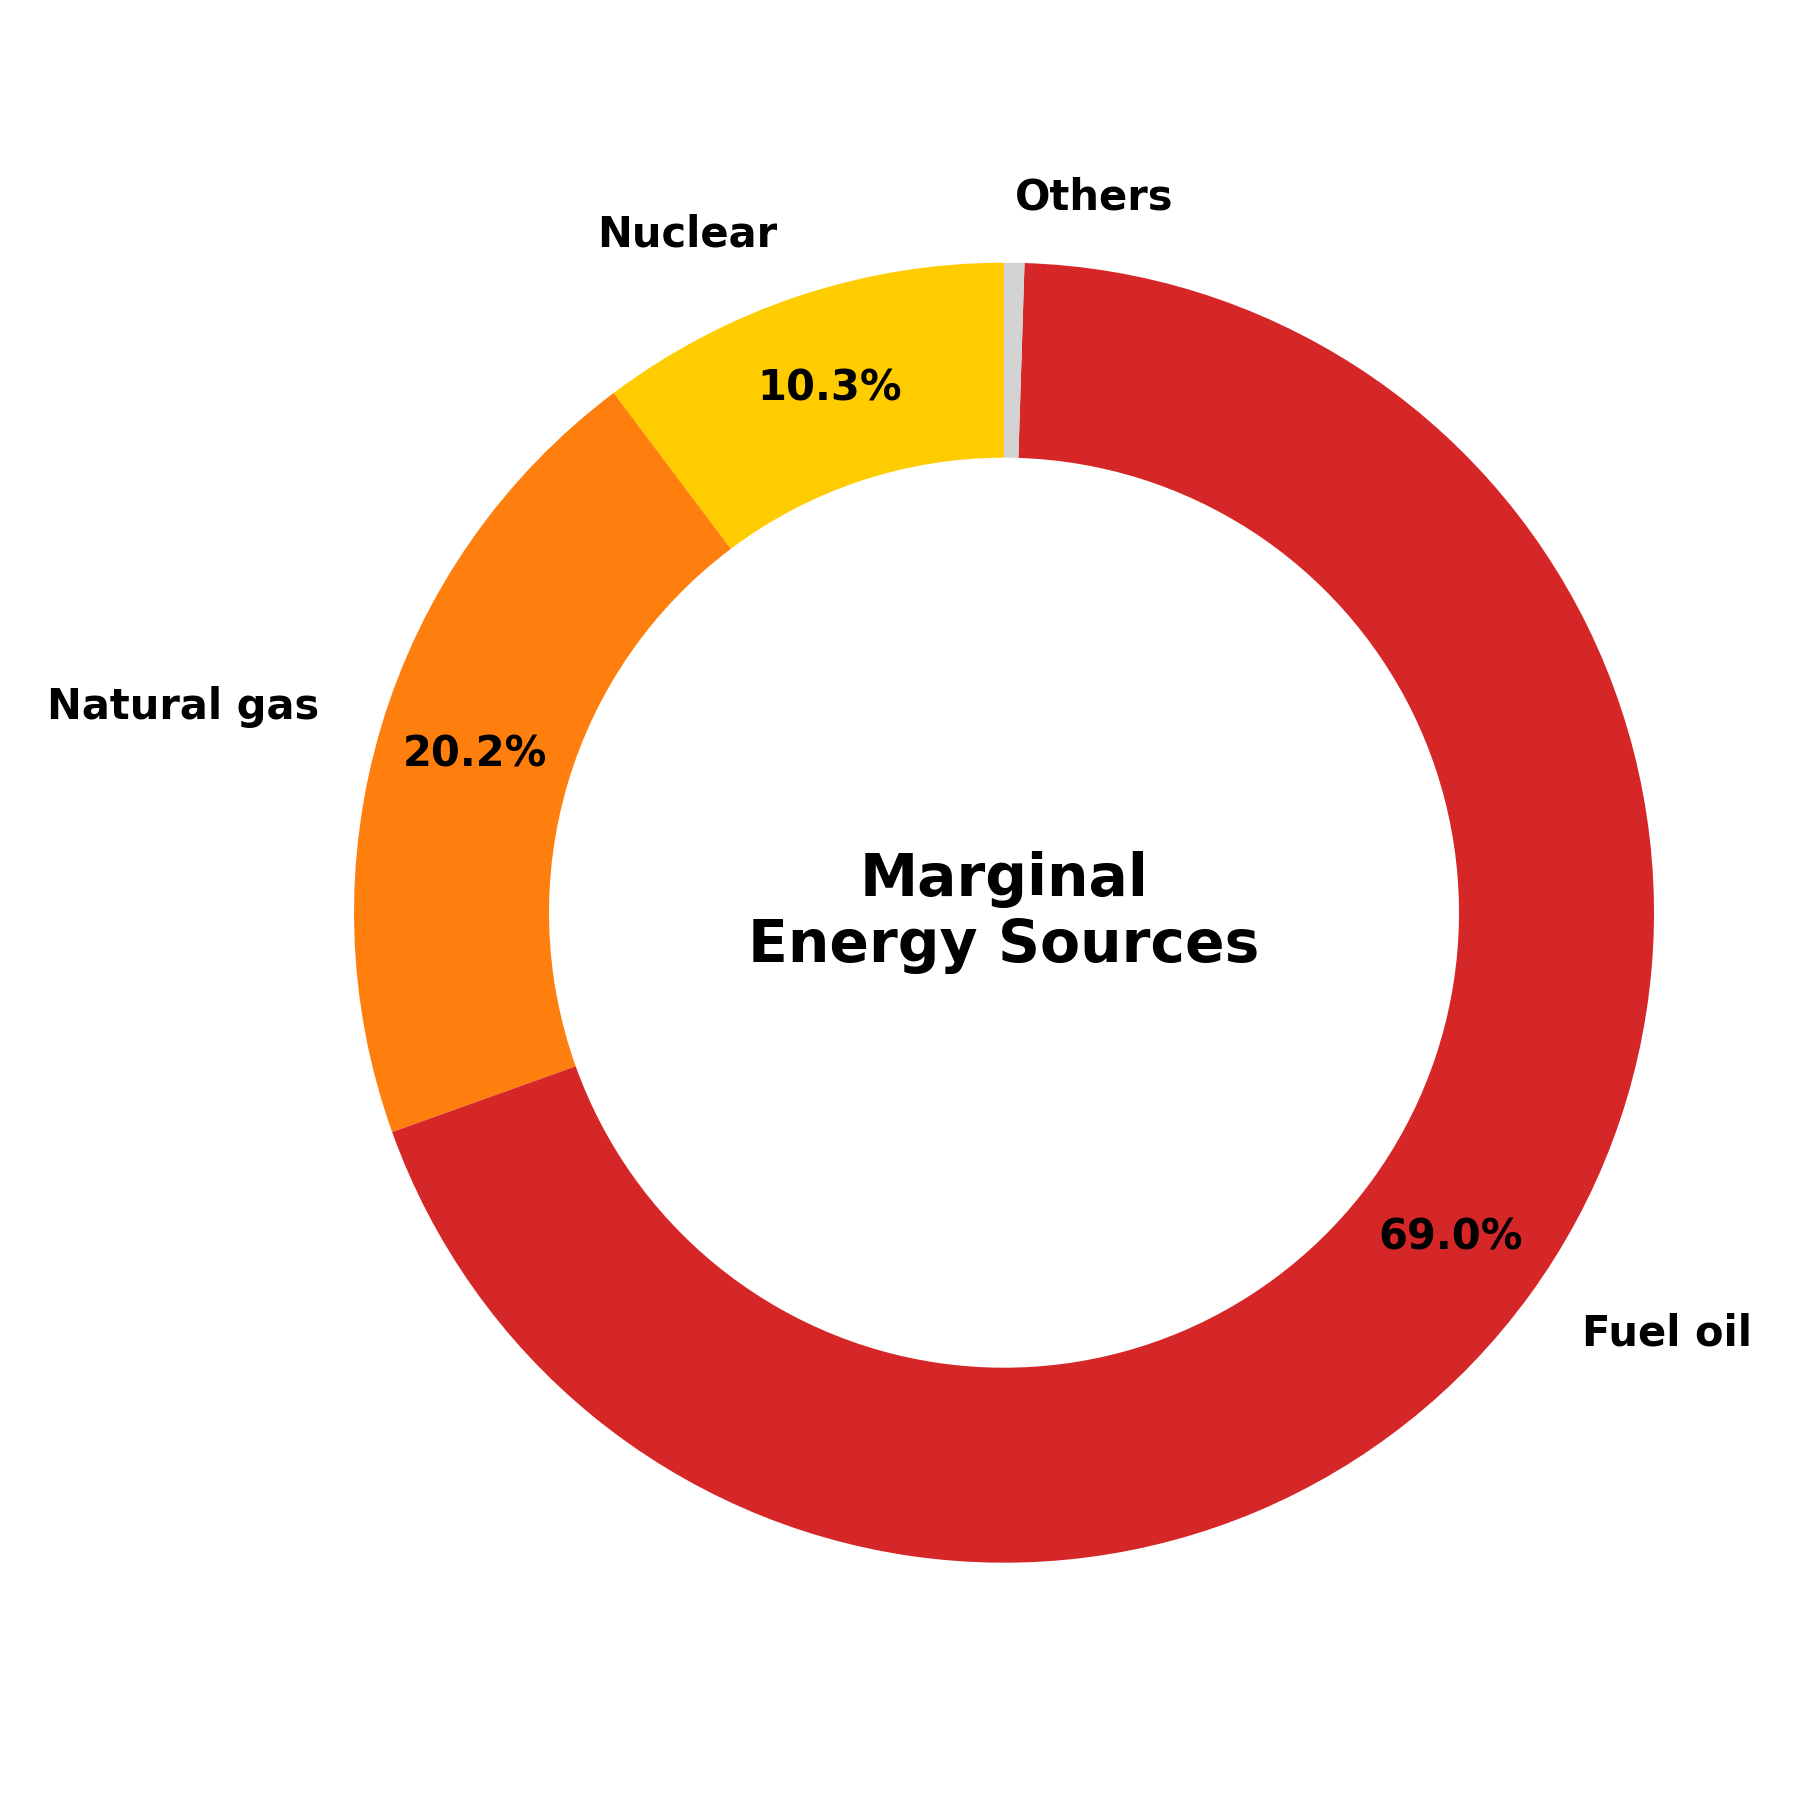
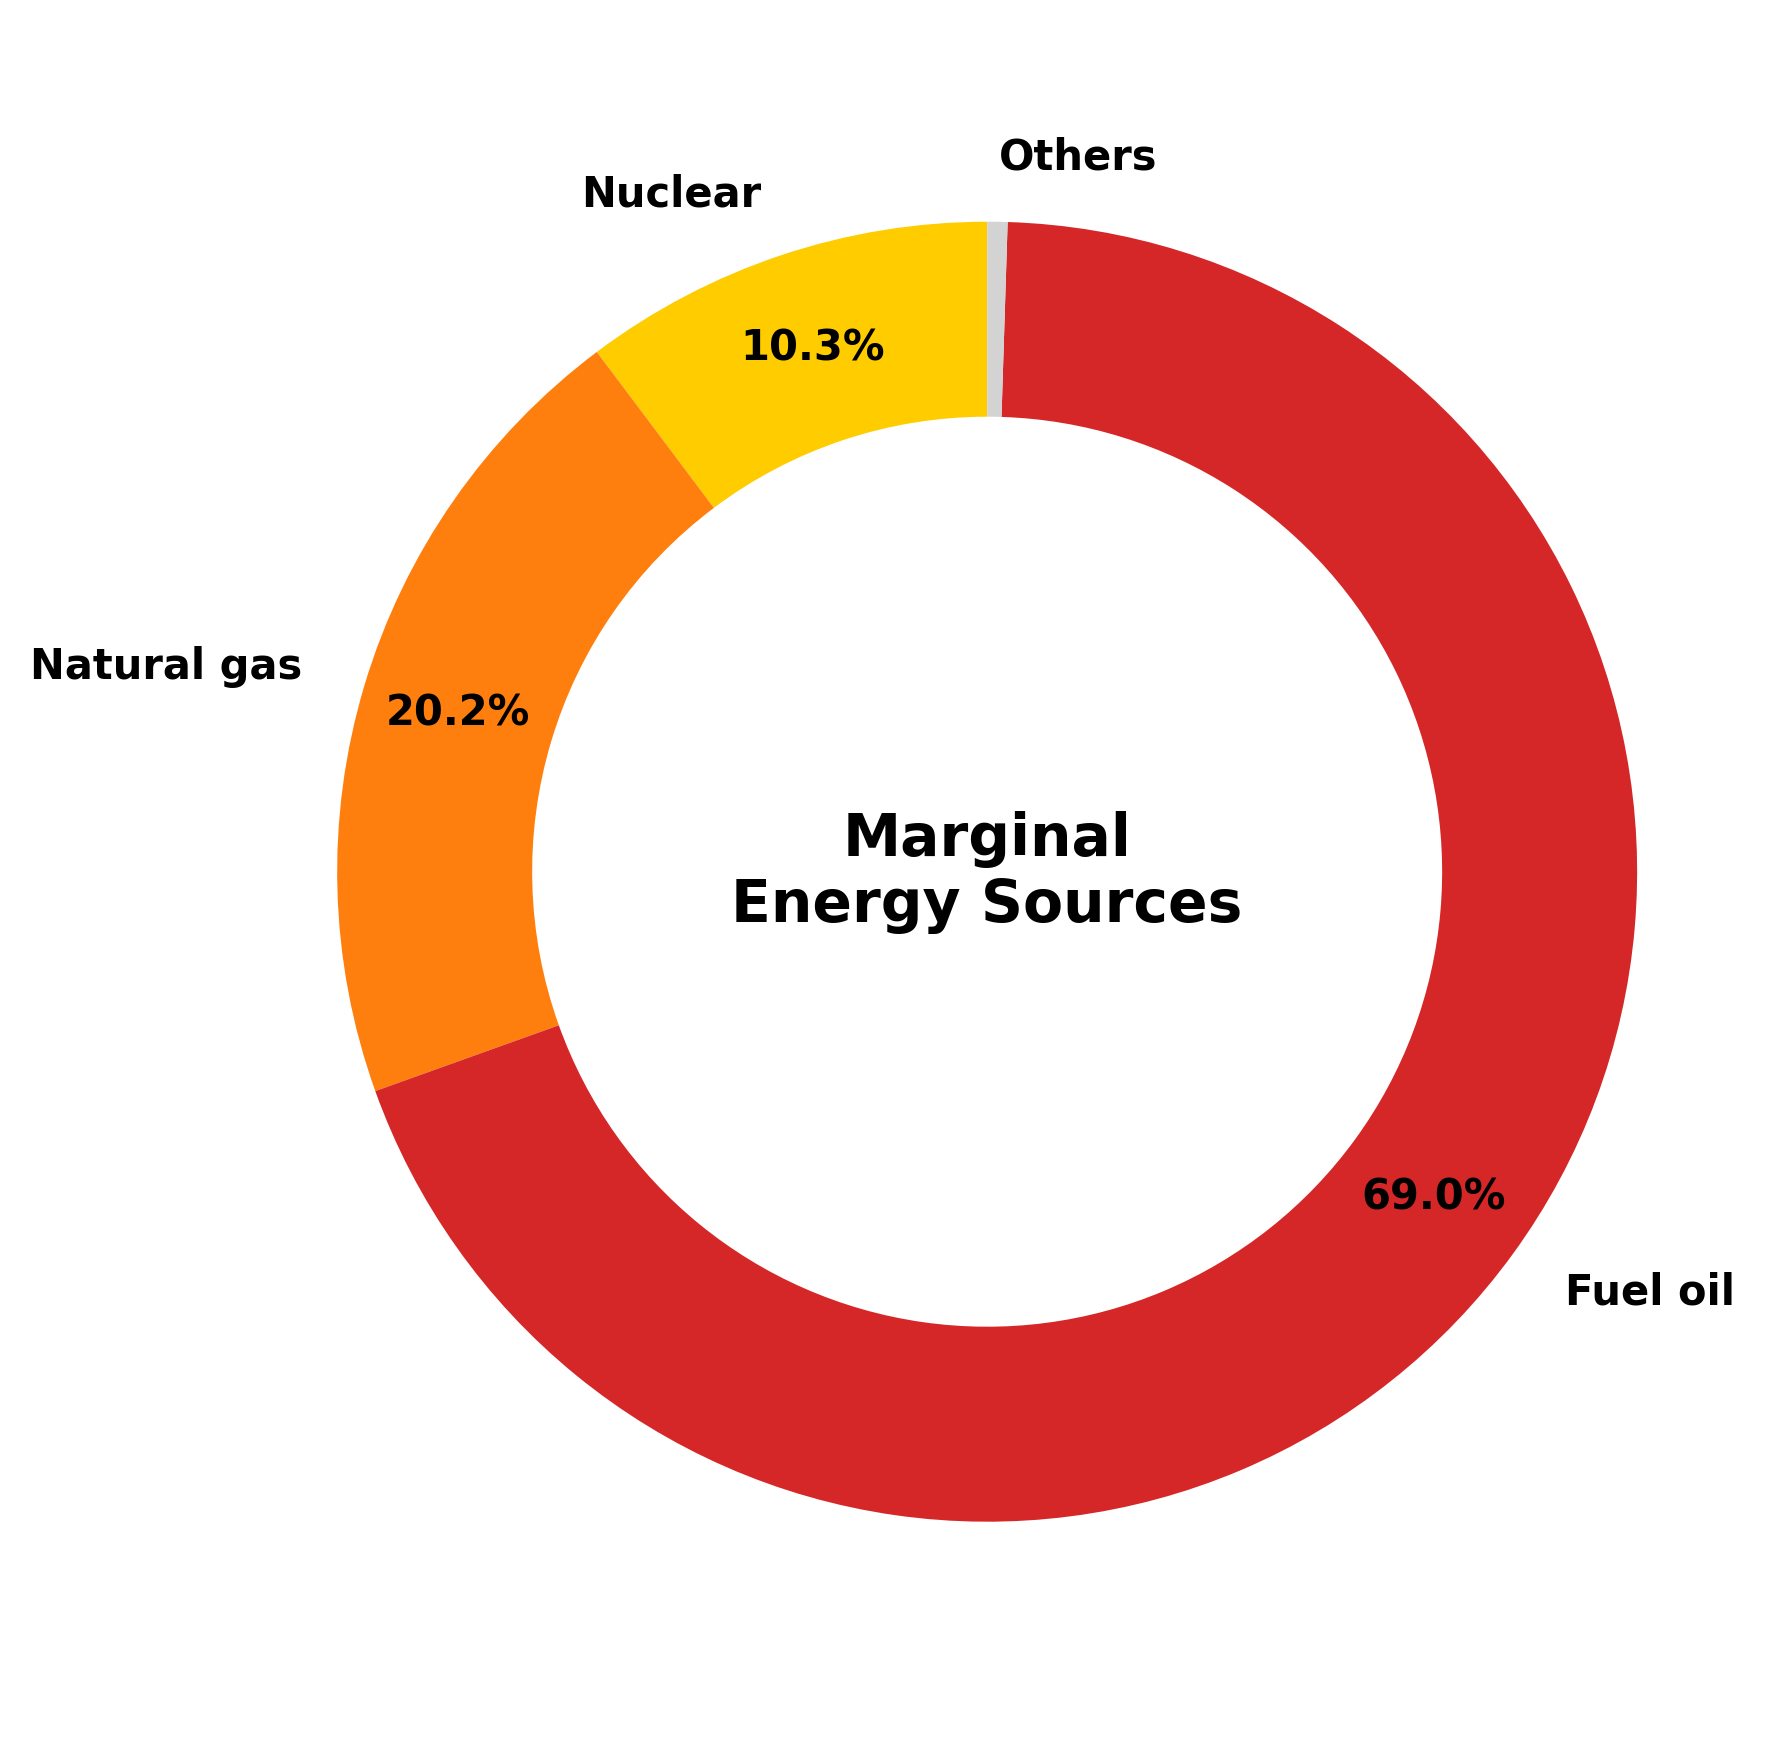
figures

diff --git a/src/merit_order.py b/src/merit_order.py
@@ -103,7 +103,7 @@ def plot_donut(map_data, threshold_pct=3):
     ax.text(0, 0, 'Marginal\nEnergy Sources', ha='center', va='center', fontsize=14, weight='bold')
 
     plt.tight_layout()
-    fig.savefig(f'../figures/donut.png', dpi=300)
+    fig.savefig(f'../figures/donut.png', dpi=300, bbox_inches='tight')
     plt.show()
     plt.close()
 
@@ -207,7 +207,7 @@ def merit_order_curve(df, date):
     plt.legend(loc=2)
     plt.grid(True, linestyle='--', alpha=0.5)
     plt.tight_layout()
-    plt.savefig(f'../figures/merit_order_curve.png', dpi=300)
+    plt.savefig(f'../figures/merit_order_curve.png', dpi=300, bbox_inches='tight')
     plt.show()
     plt.close()
 

diff --git a/README.md b/README.md
@@ -62,7 +62,7 @@ This part focus on **visualization patterns** in the spot market
 
 ### Price-Capacity Scatter Plots
 
-![Price-Capacity Scatter Plot](figures/scatter_Nuclear.png)
+![Price-Capacity Scatter Plot](figures/scatter_Solar.png)
 
 ### Correlation Matrix Of Price Drivers
 
